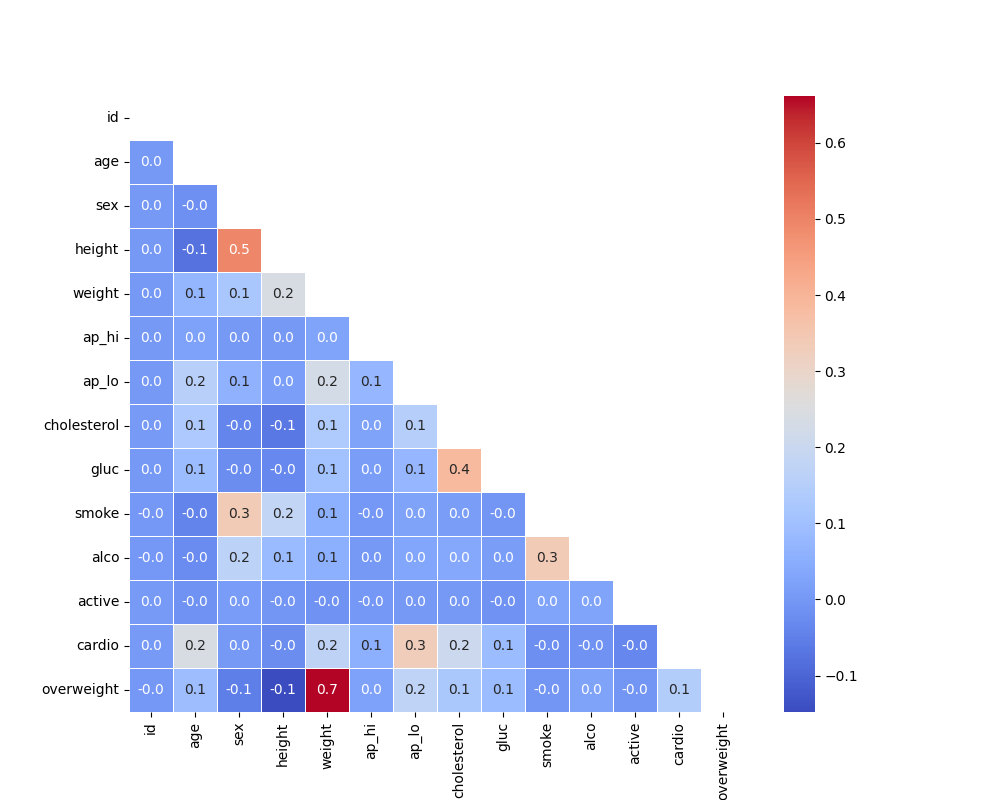
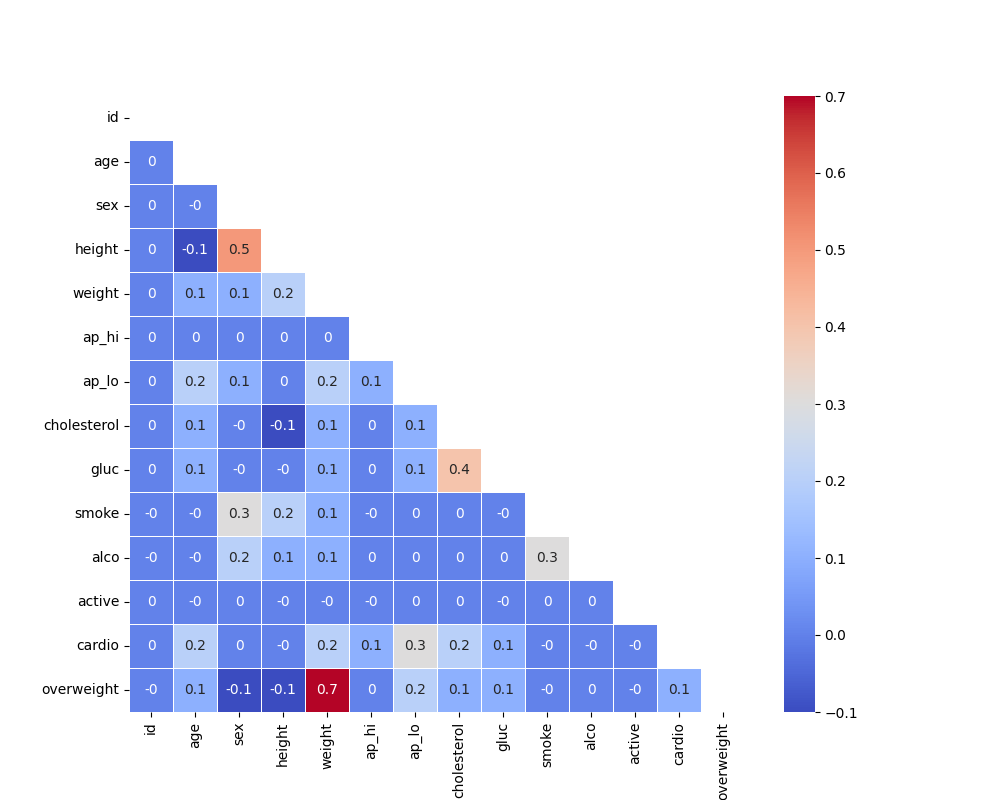
refactor: refactor code

diff --git a/medical_data_visualizer.py b/medical_data_visualizer.py
@@ -3,34 +3,26 @@ import seaborn as sns
 import matplotlib.pyplot as plt
 import numpy as np
 
-# 1
 df = pd.read_csv('medical_examination.csv')
 
-# 2
 overweight_mask = (df['weight'] / ((df['height'] / 100) ** 2)) > 25
 df['overweight'] = overweight_mask.astype(int)
 
-# 3
 gluc_mask = df['gluc'] > 1
 df['gluc'] = gluc_mask.astype(int)
 cholesterol_mask = df['cholesterol'] > 1
 df['cholesterol'] = cholesterol_mask.astype(int)
 
-# 4
+
 def draw_cat_plot():
-    # 5
     df_cat = pd.melt(
         df,
         id_vars=['cardio'],
         value_vars=['cholesterol', 'gluc', 'smoke', 'alco', 'active', 'overweight']
     )
 
-
-    # 6
     df_cat = df_cat.groupby(['cardio', 'variable', 'value']).size().reset_index(name='total')
-    
 
-    # 7
     g = sns.catplot(
         data=df_cat,
         x='variable',
@@ -40,48 +32,35 @@ def draw_cat_plot():
         kind='bar'
     )
 
-
-    # 8
     fig = g.fig
 
-
-    # 9
     fig.savefig('catplot.png')
     return fig
 
 
-# 10
 def draw_heat_map():
-    # 11
     df_heat = df[
         (df['ap_lo'] <= df['ap_hi']) &
         (df['height'] >= df['height'].quantile(0.025)) &
         (df['height'] < df['height'].quantile(0.975)) &
         (df['weight'] >= df['weight'].quantile(0.025)) &
         (df['weight'] < df['weight'].quantile(0.975))
-    ]
+        ]
 
-    # 12
     corr = df_heat.corr()
-
-    # 13
+    corr = np.round(corr, 1)
     mask = np.triu(np.ones_like(corr, dtype=bool))
 
-    # 14
     fig, ax = plt.subplots(figsize=(10, 8))
 
-    # 15
     sns.heatmap(
         corr,
         mask=mask,
         annot=True,
-        fmt=".1f",
         cmap='coolwarm',
         square=True,
         linewidths=0.5
     )
 
-
-    # 16
     fig.savefig('heatmap.png')
     return fig

diff --git a/README.md b/README.md
@@ -1,3 +1,5 @@
 # Medical Data Visualizer
 
 This is the boilerplate for the Medical Data Visualizer project. Instructions for building your project can be found at https://www.freecodecamp.org/learn/data-analysis-with-python/data-analysis-with-python-projects/medical-data-visualizer
+
+#### Check result in medical_data_visualizer.py file
